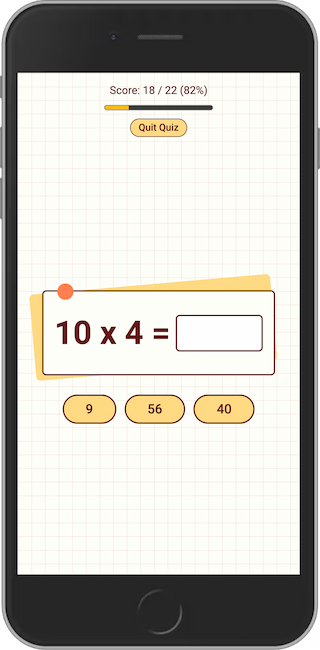
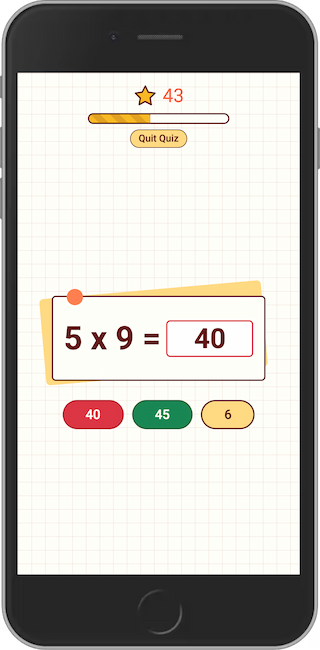
Update score visualization

Changed region(s): [[0.0938, 0.4, 0.875, 0.6769], [0.2812, 0.1231, 0.7188, 0.2462]]

diff --git a/src/js/components/multiply-quiz.js b/src/js/components/multiply-quiz.js
@@ -1,4 +1,4 @@
-import celebrationIcon from '../../assets/celebration.png';
+import starIcon from '../../assets/star-icon.svg';
 import { t } from '../services/i18n/i18n.js';
 import { shuffle } from '../utils/shuffle.js';
 
@@ -147,11 +147,13 @@ const styles = /* css */ `
   table {
     width: 100%;
     border-collapse: collapse;
+    border: 1px solid var(--body-color);
+    background-color: var(--body-bg-color);
   }
 
   thead th {
     padding: 0.5rem 1rem;
-    border-block-end: 2px solid var(--body-color);
+    border-block-end: 1px solid var(--body-color);
     font-size: 0.9rem;
     font-weight: bold;
   }
@@ -239,20 +241,67 @@ const styles = /* css */ `
     display: none !important;
   }
 
+  .score-container {
+    display: flex;
+    align-items: center;
+    gap: 0.5rem;
+    font-size: 1.75rem;
+    font-weight: 500;
+    color: tomato;
+  }
+
   .completion-message {
     display: flex;
     flex-direction: column;
     justify-content: center;
     align-items: center;
     gap: 1.5rem;
-    font-size: calc(1.1rem + 1vw);
+    font-size: 1.25rem;
     text-align: center;
     text-wrap: balance;
   }
 
-  .completion-message img {
-    border-radius: 50%;
-    border: 5px solid var(--body-color);
+  .completion-message .star {
+    display: flex;
+    align-items: center;
+    gap: 0.5rem;
+    font-size: 1.75rem;
+  }
+
+  .completion-message .score {
+    font-size: 5rem;
+    font-weight: 500;
+    color: tomato;
+  }
+
+  progress {
+    --stripe-light: var(--accent);
+    --stripe-dark: color-mix(in srgb, var(--accent) 85%, var(--body-color));
+    --prgress-stripe: repeating-linear-gradient(45deg, var(--stripe-light), var(--stripe-light) 10px, var(--stripe-dark) 10px, var(--stripe-dark) 20px);
+
+    appearance: none;
+    -webkit-appearance: none;
+    width: 13rem;
+    height: 1rem;
+    border: 2px solid var(--body-color);
+    border-radius: 50rem;
+    background-color: var(--body-bg-color);
+    overflow: hidden;
+  }
+
+  progress::-webkit-progress-bar {
+    background-color: var(--body-bg-color);
+    border-radius: 50rem;
+  }
+
+  progress::-webkit-progress-value {
+    background: var(--accent);
+    background: var(--prgress-stripe);
+  }
+
+  progress::-moz-progress-bar {
+    background: var(--accent);
+    background: var(--prgress-stripe);
   }
 
   @media (min-width: 1024px) {
@@ -273,7 +322,10 @@ const createTemplate = styles => {
     <style>${styles}</style>
 
     <header>
-      <div id="score"></div>
+      <div class="score-container">
+        <img src="${starIcon}" alt="Score" width="35" height="35">
+        <span id="score"></span>
+      </div>
       <progress id="progress"></progress>
       <button type="button" id="quitQuiz" class="quit-quiz-btn">${t('quitQuizCTA')}</button>
     </header>
@@ -583,8 +635,7 @@ class MultiplyQuiz extends HTMLElement {
   }
 
   #updateScore() {
-    const correctRate = ((this.#correctAnswers / this.#shownQuestionsCount) * 100 || 0).toFixed(0);
-    this.#scoreEl.textContent = `${t('score')}: ${this.#correctAnswers} / ${this.#shownQuestionsCount} (${correctRate}%)`;
+    this.#scoreEl.textContent = this.#correctAnswers;
   }
 
   #updateProgress() {
@@ -595,16 +646,19 @@ class MultiplyQuiz extends HTMLElement {
   #showCompletionMessage() {
     this.shadowRoot.getElementById('quiz').innerHTML = /* html */ `
       <div class="completion-message">
-        <img src="${celebrationIcon}" alt="Celebration" width="125" height="121" aria-hidden="true">
-        ${t('completionMessage')}
-        <br>
-        ${t('completionMessageScore', {
-          score: `${this.#correctAnswers} / ${this.#totalQuestions}`
-        })}
+        <div class="star">
+          <img src="${starIcon}" alt="Score" width="50" height="50" aria-hidden="true">
+          ${t('score')}
+        </div>
+
+        <div class="score">
+          ${this.#correctAnswers}
+        </div>
 
         ${
           this.#wrongAnswers.size > 0
             ? /* html */ `
+              ${t('notAllCorrectMessage')}
               <details>
                 <summary>${t('viewIncorrectAnswers')}</summary>
 
@@ -632,7 +686,7 @@ class MultiplyQuiz extends HTMLElement {
                 </table>
               </details>
             `
-            : ''
+            : `🎉 ${t('allCorrectMessage')}`
         }
 
         <button id="restartQuiz">${t('startOverCTA')}</button>
